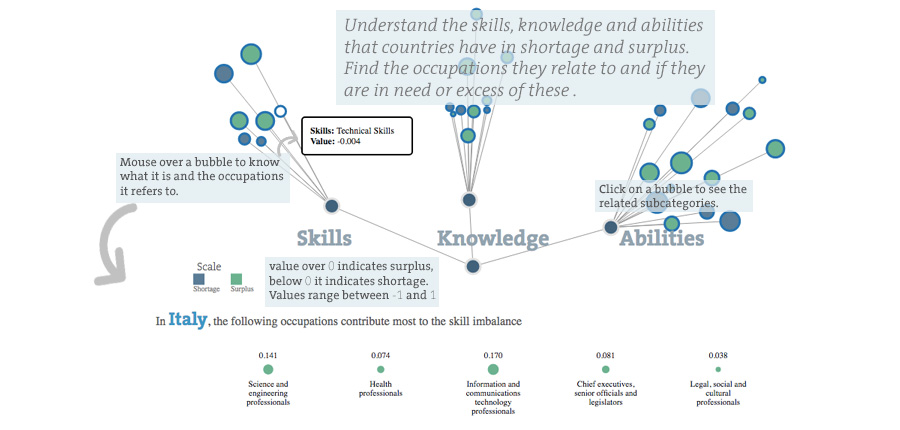
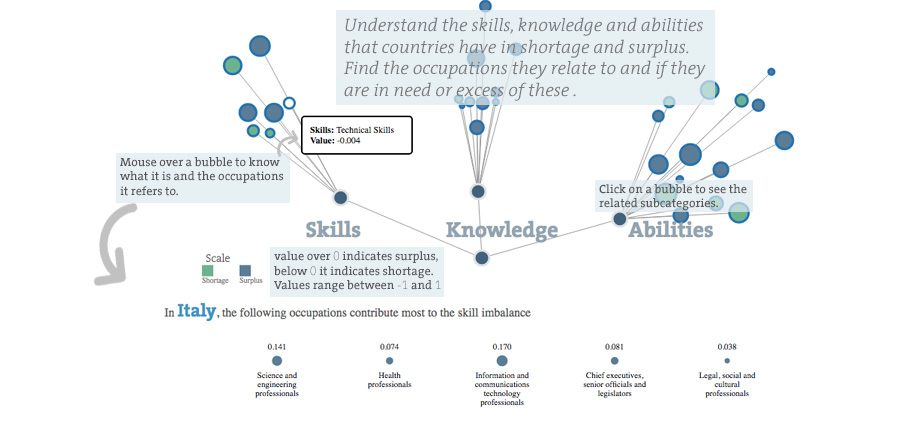
country selector improved  scale modification

diff --git a/js/map.js b/js/map.js
@@ -100,17 +100,28 @@
 							d3.select("#countryTooltipSetUP").classed("hidden", false);
 						})
 						.on("mouseout", function(d) {
-                    		d3.select(this).style("fill","#F8FAFC");
+							console.log(d)
+							if(document.getElementById("dropDownButton").value==d.properties.ISO3_CODE)
+								d3.select(this).style("fill","rgb(57,97,125)")
+                    		else 
+                    			d3.select(this).style("fill","#F8FAFC");
 
 
 							d3.select("#countryTooltipSetUP").classed("hidden", true);
 						})
 						.on("click",function(d){	
 
+
+                    		d3.selectAll("path").style("fill","#F8FAFC");
+
+                    		d3.select(this).style("fill","rgb(57,97,125)");
 							//viz explanations are hidden as long as you haven't clicked on a country
 							//d3.select(".vizExplanation").classed("hidden", false);
 							document.getElementById("dropDownButton").value = d.properties.ISO3_CODE;
+
+
 							initialiseAll(d.properties.ISO3_CODE)
+                    		
 						});
 
     });

diff --git a/js/setup.js b/js/setup.js
@@ -30,7 +30,7 @@
     //scale radius usage dots
 	var colorScale = d3.scaleQuantize()
 	    //.range(["#5AB9D2","#7FABD5","#A29BCC","#BE8BBA","#CF7DA0","#D57383"])
-	    .range(["#537C98","#4AB891"])
+	    .range(["#4AB891","#537C98"])
 	    .domain([-1, 1]);
 
 	var center = { x: width / 2, y: height / 2 };
@@ -127,6 +127,12 @@ function initialiseAll(isoCode) {
 				if(d.country==isoCode)
 					data_usage.push(d.data);
 			});
+		
+
+        
+		d3.select("#map").selectAll("path").style("fill","#F8FAFC");
+		classCountry="."+isoCode
+		d3.select(classCountry).style("fill","rgb(57,97,125)")
 		});
 	}
 
